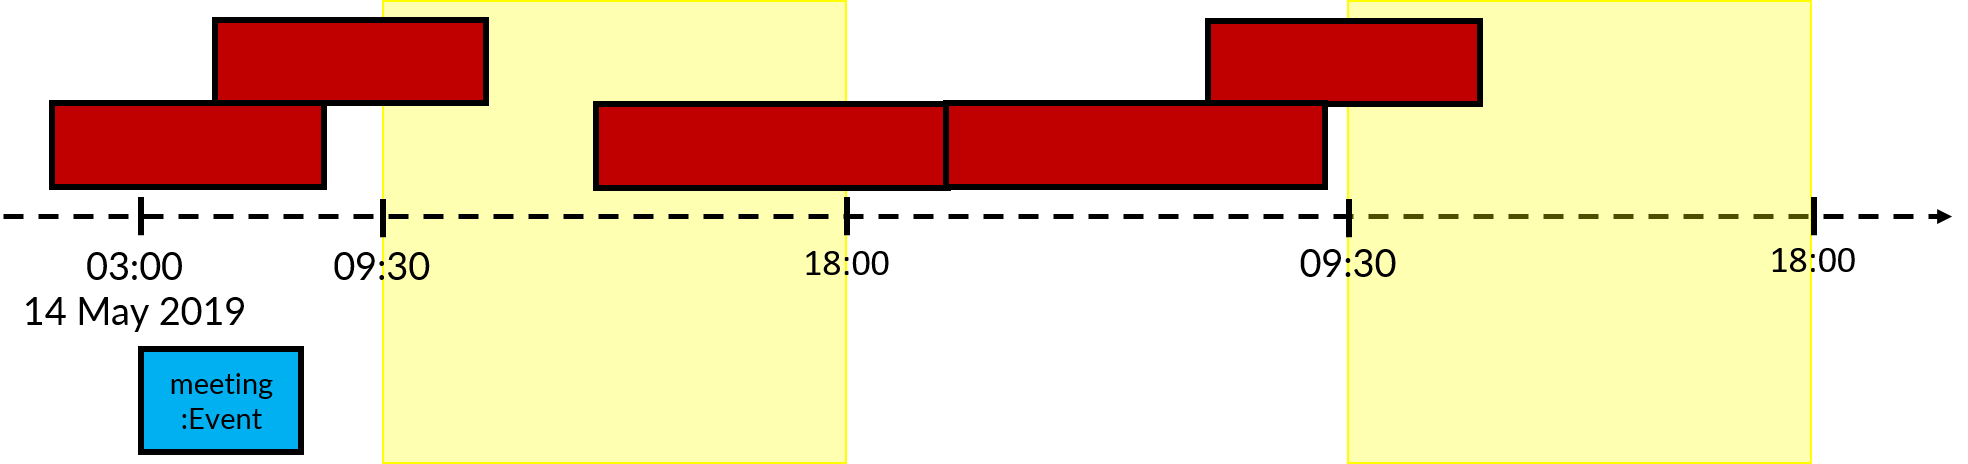
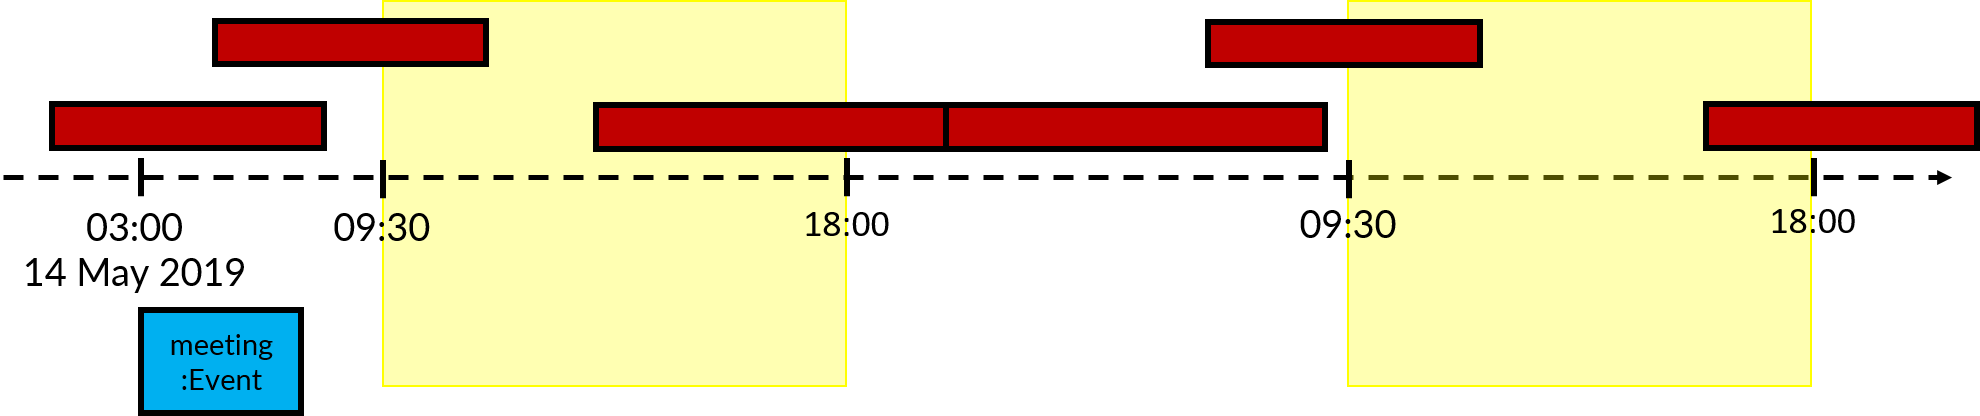
Rebuild pages at db416083abc0461af0aa81bac9bb0c0adb452ec8

diff --git a/team/yonggqiii.html b/team/yonggqiii.html
@@ -974,6 +974,25 @@ indicates that the new meeting event must not fall within night time, defined to
 <img src="../images/MeetCommandLogic7.png" alt="MeetCommandLogic7" width="1000">
 </div>
 </div>
+<div class="paragraph">
+<p>Here, the event in blue clashes with the event in green. Just as before, the two old events is reduced to a new meeting event that starts right after the end of <code>y</code> and is within the block.</p>
+</div>
+<div class="imageblock">
+<div class="content">
+<img src="../images/MeetCommandLogic8.png" alt="MeetCommandLogic8" width="1000">
+</div>
+</div>
+<div class="paragraph">
+<p>Finally, the last event does not clash with the event in blue. Both events reduce to the event in blue.</p>
+</div>
+<div class="imageblock">
+<div class="content">
+<img src="../images/MeetCommandLogic9.png" alt="MeetCommandLogic9" width="1000">
+</div>
+</div>
+<div class="paragraph">
+<p>This event is then tested whether its end <code>DateTime</code> is later than the latest end <code>DateTime</code> specified by the user, and whether there are duplicate events.</p>
+</div>
 </div>
 </div>
 </div>
@@ -986,4 +1005,4 @@ indicates that the new meeting event must not fall within night time, defined to
 <p><em>{Optionally, you may include other projects in your portfolio.}</em></p>
 </div>
 </div>
-</div></div><div id="footer"><div class="container"><div id="footer-text">Last updated 2019-04-14 22:36:49 UTC</div></div></div></body></html>
+</div></div><div id="footer"><div class="container"><div id="footer-text">Last updated 2019-04-14 23:04:22 UTC</div></div></div></body></html>

diff --git a/DeveloperGuide.html b/DeveloperGuide.html
@@ -1536,6 +1536,25 @@ To achieve this function and other person-event related functions, a unidirectio
 <img src="images/MeetCommandLogic7.png" alt="MeetCommandLogic7" width="1000">
 </div>
 </div>
+<div class="paragraph">
+<p>Here, the event in blue clashes with the event in green. Just as before, the two old events is reduced to a new meeting event that starts right after the end of <code>y</code> and is within the block.</p>
+</div>
+<div class="imageblock">
+<div class="content">
+<img src="images/MeetCommandLogic8.png" alt="MeetCommandLogic8" width="1000">
+</div>
+</div>
+<div class="paragraph">
+<p>Finally, the last event does not clash with the event in blue. Both events reduce to the event in blue.</p>
+</div>
+<div class="imageblock">
+<div class="content">
+<img src="images/MeetCommandLogic9.png" alt="MeetCommandLogic9" width="1000">
+</div>
+</div>
+<div class="paragraph">
+<p>This event is then tested whether its end <code>DateTime</code> is later than the latest end <code>DateTime</code> specified by the user, and whether there are duplicate events.</p>
+</div>
 </div>
 </div>
 <div class="sect2">
@@ -3324,4 +3343,4 @@ Expected: Similar to previous.</p>
 </div>
 </div>
 </div>
-</div></div><div id="footer"><div class="container"><div id="footer-text">Last updated 2019-04-14 22:36:49 UTC</div></div></div></body></html>
+</div></div><div id="footer"><div class="container"><div id="footer-text">Last updated 2019-04-14 23:04:22 UTC</div></div></div></body></html>

diff --git a/team/jillWangJill.html b/team/jillWangJill.html
@@ -504,4 +504,4 @@ And the reminder will pop inside app at that reminding time. Also, it will disap
 <p><em>{Optionally, you may include other projects in your portfolio.}</em></p>
 </div>
 </div>
-</div></div><div id="footer"><div class="container"><div id="footer-text">Last updated 2019-04-14 22:36:49 UTC</div></div></div></body></html>
+</div></div><div id="footer"><div class="container"><div id="footer-text">Last updated 2019-04-14 23:04:22 UTC</div></div></div></body></html>

diff --git a/team/johndoe.html b/team/johndoe.html
@@ -446,4 +446,4 @@ If the <code>currentStatePointer</code> is at index <code>addressBookStateList.s
 <p><em>{Optionally, you may include other projects in your portfolio.}</em></p>
 </div>
 </div>
-</div></div><div id="footer"><div class="container"><div id="footer-text">Last updated 2019-04-14 22:36:49 UTC</div></div></div></body></html>
+</div></div><div id="footer"><div class="container"><div id="footer-text">Last updated 2019-04-14 23:04:22 UTC</div></div></div></body></html>

diff --git a/team/jwl1997.html b/team/jwl1997.html
@@ -655,4 +655,4 @@ To achieve this function and other person-event related functions, a unidirectio
 <p><em>{Optionally, you may include other projects in your portfolio.}</em></p>
 </div>
 </div>
-</div></div><div id="footer"><div class="container"><div id="footer-text">Last updated 2019-04-14 22:36:49 UTC</div></div></div></body></html>
+</div></div><div id="footer"><div class="container"><div id="footer-text">Last updated 2019-04-14 23:04:22 UTC</div></div></div></body></html>

diff --git a/team/dadangminh.html b/team/dadangminh.html
@@ -354,4 +354,4 @@ Format: <code>export n/FILENAME p/FILEPATH [t/TAG]</code></p>
 <p><em>{Optionally, you may include other projects in your portfolio.}</em></p>
 </div>
 </div>
-</div></div><div id="footer"><div class="container"><div id="footer-text">Last updated 2019-04-14 22:36:49 UTC</div></div></div></body></html>
+</div></div><div id="footer"><div class="container"><div id="footer-text">Last updated 2019-04-14 23:04:22 UTC</div></div></div></body></html>

diff --git a/ContactUs.html b/ContactUs.html
@@ -12,4 +12,4 @@
 <p><strong>Email us</strong> : You can also reach us at <code>dadangminh15@gmail.com</code></p>
 </li>
 </ul>
-</div></div><div id="footer"><div class="container"><div id="footer-text">Last updated 2019-04-14 22:36:49 UTC</div></div></div></body></html>
+</div></div><div id="footer"><div class="container"><div id="footer-text">Last updated 2019-04-14 23:04:22 UTC</div></div></div></body></html>

diff --git a/LearningOutcomes.html b/LearningOutcomes.html
@@ -549,4 +549,4 @@ When the value represented by the <code>ObservableValue</code> changes, it will 
 </div>
 </div>
 </div>
-</div></div><div id="footer"><div class="container"><div id="footer-text">Last updated 2019-04-14 22:36:49 UTC</div></div></div></body></html>
+</div></div><div id="footer"><div class="container"><div id="footer-text">Last updated 2019-04-14 23:04:22 UTC</div></div></div></body></html>

diff --git a/team/yinya998.html b/team/yinya998.html
@@ -628,4 +628,4 @@ Different search patterns optimize the 'find' command for different kinds of use
 </div>
 </div>
 </div>
-</div></div><div id="footer"><div class="container"><div id="footer-text">Last updated 2019-04-14 22:36:49 UTC</div></div></div></body></html>
+</div></div><div id="footer"><div class="container"><div id="footer-text">Last updated 2019-04-14 23:04:22 UTC</div></div></div></body></html>

diff --git a/UsingGradle.html b/UsingGradle.html
@@ -255,4 +255,4 @@ See <code>build.gradle</code> &#8594; <code>allprojects</code> &#8594; <code>dep
 </ul>
 </div>
 </div>
-</div></div><div id="footer"><div class="container"><div id="footer-text">Last updated 2019-04-14 22:36:49 UTC</div></div></div></body></html>
+</div></div><div id="footer"><div class="container"><div id="footer-text">Last updated 2019-04-14 23:04:22 UTC</div></div></div></body></html>

diff --git a/UsingNetlify.html b/UsingNetlify.html
@@ -123,4 +123,4 @@ The publish directory is the directory in which the built HTML documentation res
 </ol>
 </div>
 </div>
-</div></div><div id="footer"><div class="container"><div id="footer-text">Last updated 2019-04-14 22:36:49 UTC</div></div></div></body></html>
+</div></div><div id="footer"><div class="container"><div id="footer-text">Last updated 2019-04-14 23:04:22 UTC</div></div></div></body></html>

diff --git a/UsingCoveralls.html b/UsingCoveralls.html
@@ -96,4 +96,4 @@ If you have not set up Travis CI, see <a href="UsingTravis.html">UsingTravis.ado
 </ol>
 </div>
 </div>
-</div></div><div id="footer"><div class="container"><div id="footer-text">Last updated 2019-04-14 22:36:49 UTC</div></div></div></body></html>
+</div></div><div id="footer"><div class="container"><div id="footer-text">Last updated 2019-04-14 23:04:22 UTC</div></div></div></body></html>
